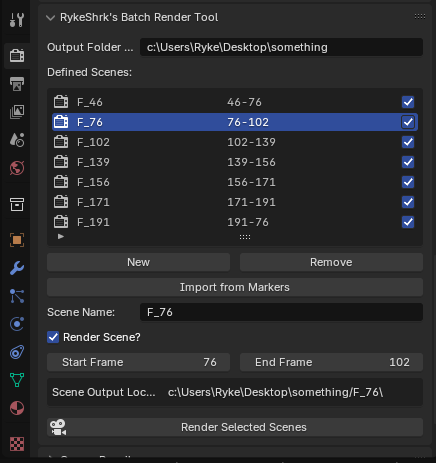
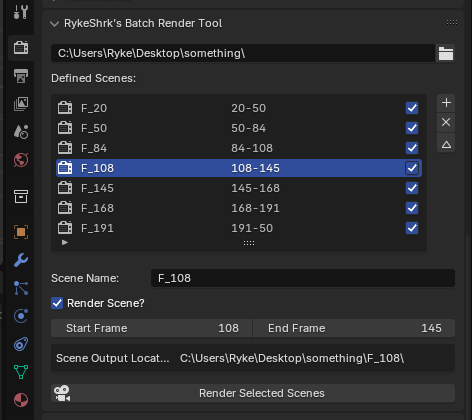
Tidy up button layout

diff --git a/__init__.py b/__init__.py
@@ -230,13 +230,22 @@ class UIDemo(bpy.types.Panel):
 			layout.label(text="Defined Scenes:")
 			row = layout.row()
 			row.template_list("MY_UL_List", "The_List", scene, "ScenesDB", scene, "ScenesDBlist_index")
-			
+
+			col = row.column(align=True)
+
+			col.operator('scenedbmanager.new_item', text='', icon='ADD')
+			col.operator('scenedbmanager.delete_item', text='', icon='REMOVE')
+
+			col = col.row(align=True)
+
+			col.operator('scenedbmanager.import_from_markers', text='', icon='MARKER')
+
 			row = layout.row(align=True)
-			row.operator('scenedbmanager.new_item', text='New', icon='ADD')
-			row.operator('scenedbmanager.delete_item', text='Remove', icon='X')
+			#row.operator('scenedbmanager.new_item', text='New', icon='ADD')
+			#row.operator('scenedbmanager.delete_item', text='Remove', icon='X')
 
 			row = layout.row()
-			row.operator('scenedbmanager.import_from_markers', text='Import from Markers', icon='MARKER')
+			#row.operator('scenedbmanager.import_from_markers', text='Import from Markers', icon='MARKER')
 			
 			if scene.ScenesDBlist_index >= 0 and scene.ScenesDB: 
 				item = scene.ScenesDB[scene.ScenesDBlist_index]
@@ -264,16 +273,6 @@ class UIDemo(bpy.types.Panel):
 				layout.operator(RenderAllScenes.bl_idname, icon="VIEW_CAMERA")
 			else:
 				### TODO: This can be optimized into its own method.
-				if not bpy.data.is_saved:
-					wList = wrapp.wrap(text="You haven't saved this blend file! Either set a output location or save the file before continuing.")
-					for text in wList:
-						row = layout.row(align = True)
-						row.alignment = 'EXPAND'
-						if( text is wList[0] ):
-							row.label(text=text, icon="ERROR")
-						else:
-							row.label(text=text)
-					# layout.label(text="You haven't saved this blend file! Either set a output location or save the file before continuing.", icon="ERROR")
 				if activeScenes == 0:
 					wList = wrapp.wrap(text="You must declare at least ONE scene to use the tool.")
 					for text in wList:

diff --git a/UIListDec.py b/UIListDec.py
@@ -31,7 +31,7 @@ class MY_UL_List(bpy.types.UIList):
             layout.label(text="", icon = custom_icon)
 
 class LIST_OT_NewItem(bpy.types.Operator):
-    """Add a new item to the list."""
+    """Add a new item to the list"""
     bl_idname = "scenedbmanager.new_item"
     bl_label = "Add a new item"
     
@@ -55,7 +55,7 @@ class LIST_OT_NewItem(bpy.types.Operator):
         return{'FINISHED'}
 
 class LIST_OT_DeleteItem(bpy.types.Operator):
-    """Delete the selected item from the list."""
+    """Delete the selected item from the list"""
     bl_idname = "scenedbmanager.delete_item"
     bl_label = "Deletes an item"
     
@@ -71,9 +71,9 @@ class LIST_OT_DeleteItem(bpy.types.Operator):
         return{'FINISHED'}
 
 class LIST_OT_ImportFromMarkers(bpy.types.Operator):
-    """Creates the list based on the markers on the current scene."""
+    """Creates the list based on the markers on the current scene"""
     bl_idname = "scenedbmanager.import_from_markers"
-    bl_label = "Creates the list based on the markers on the current scene."
+    bl_label = "Import from Markers"
         
     def execute(self, context):
         ScenesDB = context.scene.ScenesDB

diff --git a/README.md b/README.md
@@ -31,7 +31,7 @@ Sets the global folder location where every scene will be saved to. Think of it 
 
 #### Defined scenes
 This is where you'll declare which scenes will be rendered out, their name and how long they will be.
-Use the New and Remove buttons to add a new scene and to delete one. Or the "Import from Markers" option to generate them automatically based on the markers you've set on the timeline.
+Use the Plus and Minus buttons to add a new scene and to delete one. Or the "Import from Markers" option to generate them automatically based on the markers you've set on the timeline.
 
 ### Managing a scene
 
